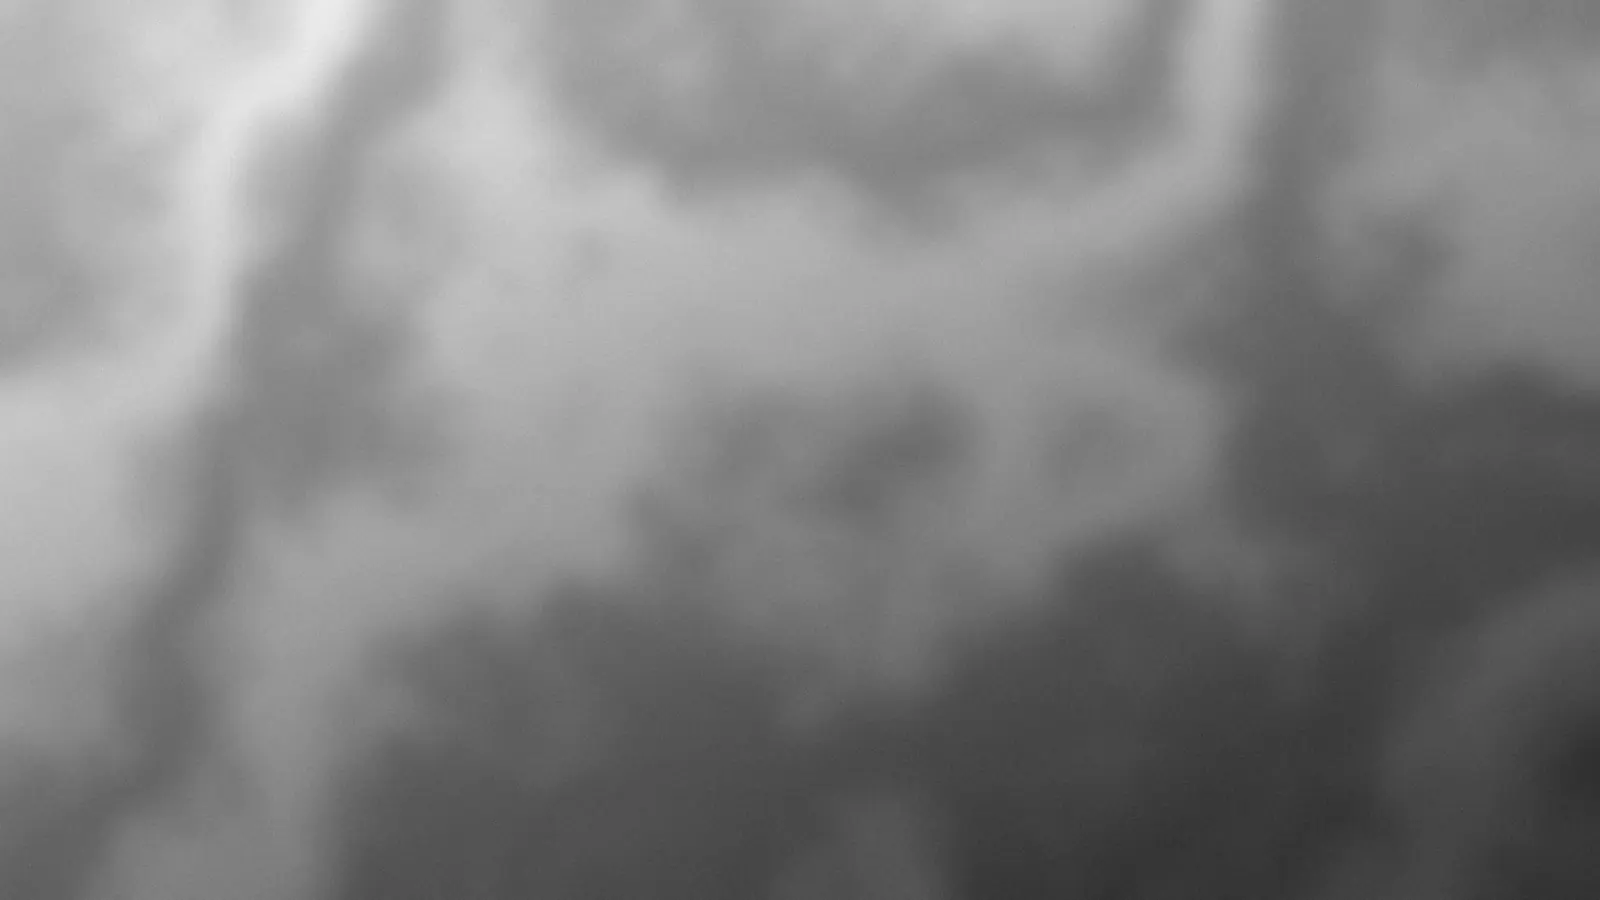
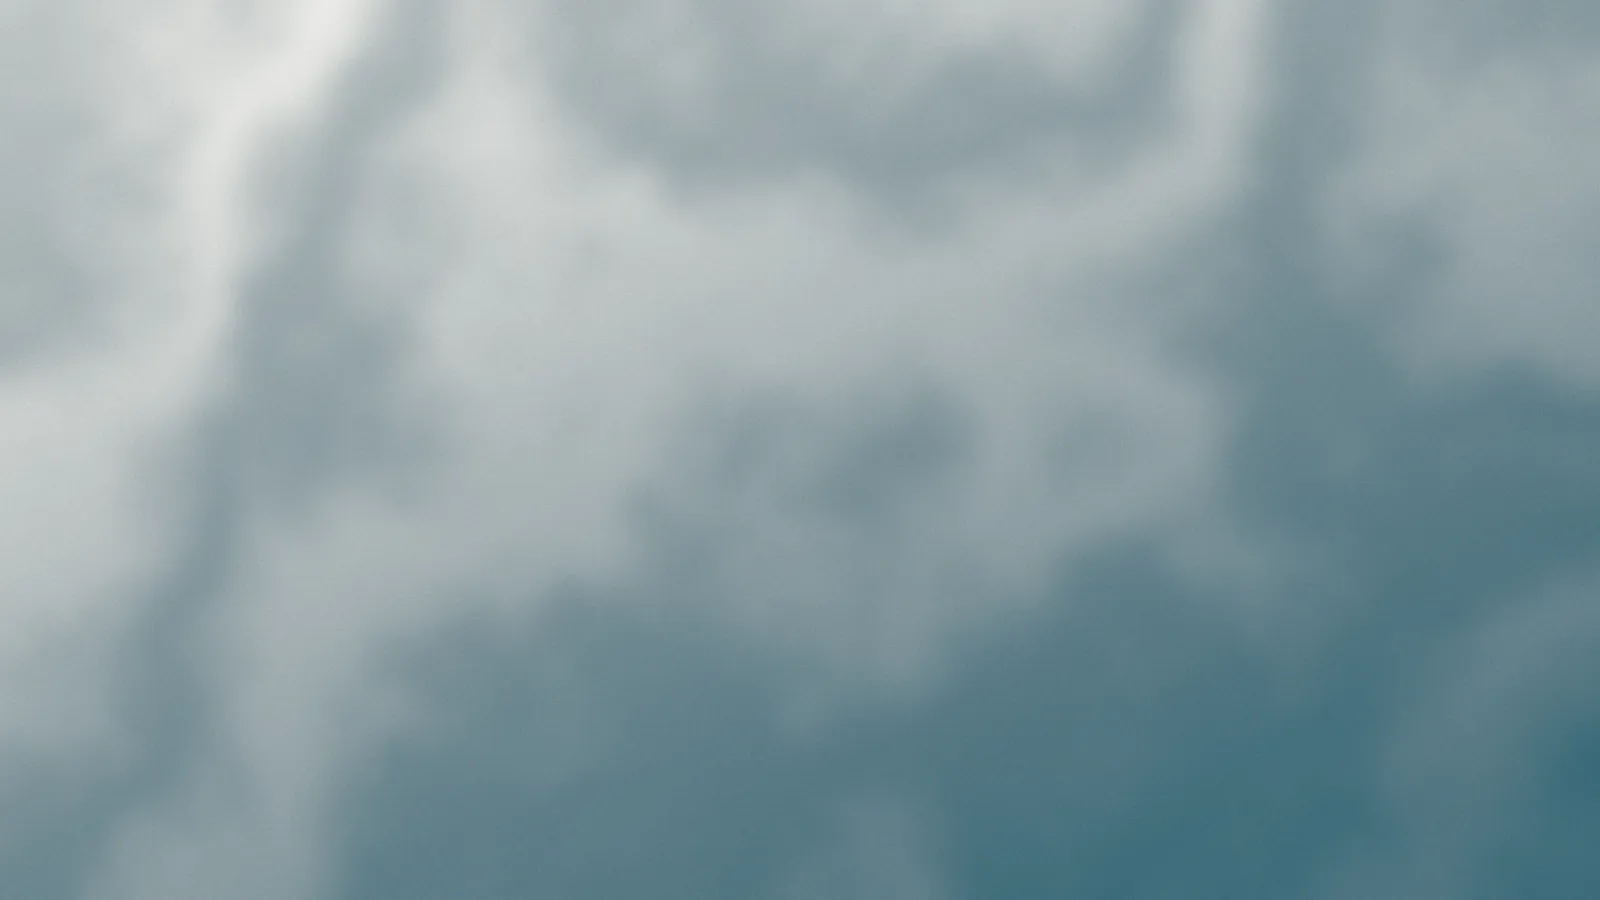
Bring colour in: a sea-and-sand palette over the monochrome
Sand is barely there -- `sunk` and `line` warm by a few points, enough to stop
the page reading as printer white and nowhere near beige. All of the actual
colour is one deep teal in `accent`, so it lands on the handful of things that
carry meaning (the italic word in the headline, pull-quotes and quote marks,
FAQ markers, bullets, buttons under the cursor, the focus ring, selected text)
rather than being spread everywhere at low strength.

`accent` has to work both as text and as a ground under white text, which pins
it dark. #0d6d78 clears 5.79:1 on canvas and white clears 5.79:1 on it. A
turquoise nearer open water manages about 2.4:1 and can carry neither, so it
gets its own decorative-only token, --color-sea, documented as unusable for
text. Its one job is the "Most common" pill: at 5.30:1 it holds an edge against
the dark card behind it AND carries dark text, where `accent` would blur into
the card at 2.93:1.

Also caught three things that had been wrong for a while:

- muted was regressing to 4.44:1 against the darkest part of the hero's blob
  wash once `line` warmed up. Darkened to #5a6062, which lifts every grey text
  run on the site (5.68 -> 6.13 on canvas).
- favicon.svg was still #2c362f green on #faf7f2 cream -- the ORIGINAL warm
  palette, never touched by the monochrome re-skin. So was og-image.jpg, which
  is the image a stranger sees when the link is pasted into a message.
- apple-touch-icon.png was likewise stale, and now renders from the favicon's
[…]

diff --git a/src/input.css b/src/input.css
@@ -17,33 +17,51 @@
    *   canvas / surface / sunk   light grounds, lightest to least light
    *   line / line-strong        hairlines and borders
    *   ink / muted               text on light
-   *   accent                    the single emphasis channel
+   *   accent / accent-soft      the single emphasis channel, and its pressed state
    *   inverse*                  dark panels, and the three text weights on them
    *
-   * Current scheme: white, grey, black. High contrast on purpose, and it suits
-   * a black-and-white portrait better than a tinted palette would.
+   * Current scheme: sea and sand. Sand is barely there -- `sunk` and `line` are
+   * warm by a few points, enough to stop the page reading as printer white,
+   * nowhere near enough to be beige. All of the actual colour is one deep teal
+   * in `accent`, so it lands on the few things that matter (pull-quotes, the
+   * quote marks, the FAQ markers, buttons under the cursor) instead of being
+   * spread everywhere at low strength.
+   *
+   * `accent` has to work as text AND as a button ground under white text, which
+   * pins it dark: it clears 5.79:1 on canvas, and white clears 5.79:1 on it.
+   * A turquoise closer to open water sits around 2.4:1 and cannot carry either.
+   * That is what --color-sea is for.
    * ------------------------------------------------------------------ */
   --color-canvas: #fafafa;
   --color-surface: #ffffff;
-  --color-sunk: #f2f2f4;
-  --color-line: #e4e4e8;
-  --color-line-strong: #cfcfd6;
-  --color-ink: #18181b;
-  --color-muted: #62626b;
-  --color-accent: #000000;
-  --color-accent-soft: #303036;
-  --color-inverse: #141416;
-  --color-inverse-soft: #2b2b31;
+  --color-sunk: #f1f0ec;
+  --color-line: #e2e0d9;
+  --color-line-strong: #c9c6bc;
+  --color-ink: #17191a;
+  --color-muted: #5a6062;
+  --color-accent: #0d6d78;
+  --color-accent-soft: #0a555e;
+  --color-inverse: #0f1a1d;
+  --color-inverse-soft: #22333a;
   --color-inverse-ink: #fafafa;
-  --color-inverse-body: #d7d7dc;
-  --color-inverse-muted: #a1a1a9;
+  --color-inverse-body: #d4dcdd;
+  --color-inverse-muted: #9dabae;
 
-  /* Previous scheme, kept so it is one paste away if the monochrome is too
-     stark. Warm sand and clay:
-       canvas #faf7f2  surface #faf7f2  sunk #f1e9dd  line #e3d6c4
-       ink #221f1c  muted #6d645b  accent #bd6f4c  accent-soft #9d5636
-       inverse #2c362f  inverse-soft #47544a
-       inverse-ink #faf7f2  inverse-body #f1e9dd  inverse-muted #e3d6c4 */
+  /* DECORATIVE ONLY. Open-water turquoise, too light to carry text or to be a
+     ground under white text -- roughly 2.4:1 against either. Use it for washes
+     and large fills, never for anything a reader has to make out. */
+  --color-sea: #2c9aa6;
+  --color-sea-wash: #e7f1f2;
+
+  /* Previous scheme, one paste away if the colour is too much. White, grey,
+     black:
+       canvas #fafafa  surface #ffffff  sunk #f2f2f4
+       line #e4e4e8  line-strong #cfcfd6
+       ink #18181b  muted #62626b  accent #000000  accent-soft #303036
+       inverse #141416  inverse-soft #2b2b31
+       inverse-ink #fafafa  inverse-body #d7d7dc  inverse-muted #a1a1a9
+     The hero texture is tinted in scripts/hero-texture.py, so reverting that
+     too means setting SHADOW/HIGHLIGHT there back to neutral greys. */
 
   --font-display: "Fraunces", ui-serif, Georgia, serif;
   --font-sans: "Inter", ui-sans-serif, system-ui, -apple-system, sans-serif;
@@ -149,14 +167,15 @@
     border-radius: 2px;
   }
 
-  /* A black ring is invisible against the dark panels, so they invert it. */
+  /* The accent ring is dark enough to disappear against the dark panels, so
+     they invert it. */
   .bg-inverse :focus-visible,
   .bg-inverse-soft :focus-visible {
     outline-color: var(--color-inverse-ink);
   }
 
   ::selection {
-    background: var(--color-ink);
+    background: var(--color-accent);
     color: var(--color-inverse-ink);
   }
 }
@@ -448,7 +467,10 @@
     height: 100%;
     object-fit: cover;
     object-position: 50% 30%;
-    filter: grayscale(1);
+    /* Held back rather than drained. The file is tinted at generation time, so
+       there is no grey to hue-rotate, and a real photograph dropped in here
+       keeps its own colour at slightly less than full strength. */
+    filter: saturate(0.9);
     opacity: var(--hero-photo);
 
     /* Three masks intersected: fade out at the bottom so the section hands off

diff --git a/index.html b/index.html
@@ -753,7 +753,14 @@
 
             <!-- Short series - highlighted -->
             <article class="reveal relative flex flex-col rounded-3xl bg-inverse p-8 text-inverse-ink shadow-e3-dark">
-              <span class="absolute top-8 right-8 rounded-full bg-inverse-ink px-3 py-1 text-xs font-semibold tracking-wider text-inverse uppercase"
+              <!--
+                The one place --color-sea earns its keep: a large fill carrying
+                dark text, where open-water turquoise reads at 5.30:1 both
+                against the card behind it and under the label on top. The deep
+                --color-accent would only manage 2.93:1 against this card, so
+                the pill would lose its edge.
+              -->
+              <span class="absolute top-8 right-8 rounded-full bg-sea px-3 py-1 text-xs font-semibold tracking-wider text-inverse uppercase"
                 >Most common</span
               >
               <h3 class="font-display text-2xl">Short series</h3>

diff --git a/scripts/og-image.py b/scripts/og-image.py
@@ -1,0 +1,112 @@
+"""
+Render the social share card at assets/img/og-image.jpg.
+
+This is the image that shows when the site is pasted into iMessage, Slack,
+Facebook or LinkedIn, so it has to carry the palette rather than lag behind it.
+Colours here are copied from the @theme block in src/input.css -- if you re-skin
+the site, re-run this.
+
+Text is set in the site's own fonts, decompressed from the vendored woff2 files
+into a temp directory (Pillow reads TTF/OTF, not woff2).
+
+    pip install pillow fonttools brotli
+    python3 scripts/og-image.py
+"""
+
+import tempfile
+from pathlib import Path
+
+from fontTools import varLib
+from fontTools.ttLib import TTFont
+from fontTools.varLib import instancer
+from PIL import Image, ImageDraw, ImageFont
+
+W, H = 1200, 630
+OUT = Path("assets/img/og-image.jpg")
+
+# From src/input.css @theme
+INVERSE = (15, 26, 29)       # --color-inverse
+INVERSE_INK = (250, 250, 250)  # --color-inverse-ink
+INVERSE_MUTED = (157, 171, 174)  # --color-inverse-muted
+SEA = (44, 154, 166)         # --color-sea, decorative only
+
+
+def load(woff2, size, **axes):
+    """woff2 -> statically instanced ttf -> Pillow font.
+
+    Two traps here, both hit while making this card:
+
+    1. Axes must be set explicitly. Google's subsetted Fraunces declares wght
+       with a DEFAULT of 900, so just asking for the font gets black weight.
+
+    2. The instance has to be baked by fontTools, not left to FreeType's
+       set_variation_by_axes. Interpolating this subset at runtime dropped the
+       crossbar off the lowercase e -- "Beth" came out as "Bcth". Instancing
+       ahead of time renders identically to the browser.
+    """
+    f = TTFont(woff2, fontNumber=0)
+    if axes and "fvar" in f:
+        f = instancer.instantiateVariableFont(f, axes, inplace=True, updateFontNames=False)
+    out = Path(tempfile.mkdtemp()) / (Path(woff2).stem + ".ttf")
+    f.flavor = None
+    f.save(out)
+    return ImageFont.truetype(str(out), size)
+
+
+# opsz stays mid-scale on purpose. Fraunces thins its strokes as opsz climbs,
+# and by the top of the axis the crossbar on the lowercase e is a hairline that
+# rasterises away at this size -- "Beth" renders as "Bcth". 36 keeps the display
+# proportions without losing the glyph.
+display = load("assets/fonts/fraunces-latin.woff2", 92, opsz=36, wght=400)
+label = load("assets/fonts/inter-latin.woff2", 28, wght=500)
+tagline = load("assets/fonts/inter-latin.woff2", 32, wght=400)
+
+im = Image.new("RGB", (W, H), INVERSE)
+d = ImageDraw.Draw(im)
+
+
+def centre(text, font, y, fill, tracking=0):
+    """Draw centred at top-edge y, optionally letter-spaced (Pillow has no
+    tracking). Returns the bottom of the inked area, so the caller can stack
+    by real gaps instead of guessing at line positions."""
+    if not tracking:
+        box = d.textbbox((0, 0), text, font=font)
+        d.text(((W - box[2]) / 2, y), text, font=font, fill=fill)
+        return y + box[3]
+    widths = [d.textbbox((0, 0), c, font=font)[2] for c in text]
+    total = sum(widths) + tracking * (len(text) - 1)
+    x, bottom = (W - total) / 2, y
+    for c, cw in zip(text, widths):
+        d.text((x, y), c, font=font, fill=fill)
+        bottom = max(bottom, y + d.textbbox((0, 0), c, font=font)[3])
+        x += cw + tracking
+    return bottom
+
+
+# The mark, same geometry as favicon.svg on a 32-unit box, scaled and centred.
+MARK_S, MARK_X, MARK_Y, STROKE = 116, W / 2, 150, 7.0
+sc = lambda x, y: (MARK_X + (x - 16) / 32 * MARK_S, MARK_Y + (y - 16) / 32 * MARK_S)
+
+
+def brush(pts, width, fill):
+    for x, y in pts:
+        d.ellipse([x - width / 2, y - width / 2, x + width / 2, y + width / 2], fill=fill)
+
+
+def cubic(p0, p1, p2, p3, n=600):
+    for i in range(n + 1):
+        t, u = i / n, 1 - i / n
+        yield (u**3 * p0[0] + 3 * u * u * t * p1[0] + 3 * u * t * t * p2[0] + t**3 * p3[0],
+               u**3 * p0[1] + 3 * u * u * t * p1[1] + 3 * u * t * t * p2[1] + t**3 * p3[1])
+
+
+brush([sc(16, 6 + 20 * i / 400) for i in range(401)], STROKE, SEA)
+for y in (10.5, 16, 21.5):
+    brush([sc(x, yy) for x, yy in cubic((11, y), (14.2, y + 1.5), (17.8, y + 1.5), (21, y))], STROKE, SEA)
+
+y = centre("Beth Burgin", display, 262, INVERSE_INK)
+y = centre("CERTIFIED ADVANCED ROLFER", label, y + 34, INVERSE_MUTED, tracking=6)
+centre("Move. Connect. Integrate.", tagline, y + 30, SEA)
+
+im.save(OUT, "JPEG", quality=88, optimize=True, progressive=True)
+print(OUT, (W, H))

diff --git a/scripts/hero-texture.py b/scripts/hero-texture.py
@@ -20,6 +20,18 @@ W, H = 1600, 900
 OUT = "assets/img/hero-bg.webp"
 rng = np.random.default_rng(20260724)
 
+# The tone ramp: shadows take the sea, highlights go to warm paper. Tinting the
+# file rather than the CSS keeps the stylesheet from having to hue-rotate a grey
+# image, and means dropping in a real photograph keeps its own colour.
+SHADOW = (5, 94, 112)        # deep water, a shade under --color-accent
+HIGHLIGHT = (250, 248, 243)  # sand-lit sky
+
+# Pulls the midtones down the ramp toward the sea. Straight linear interpolation
+# spends most of the range near the highlight, and by the time the browser has
+# faded and masked the result there is no colour left to see. Above 1.0 = more
+# water, below 1.0 = more paper.
+TINT_GAMMA = 1.9
+
 
 def octave(w, h, cells):
     """One octave of value noise, bilinearly upsampled to w x h."""
@@ -53,7 +65,23 @@ im = im.filter(ImageFilter.GaussianBlur(radius=6))
 
 # Film grain, so the flat areas don't band once the browser scales the file up.
 grain = rng.normal(0.0, 3.2, (H, W))
-out = np.clip(np.asarray(im, dtype=np.float32) + grain, 0, 255).astype(np.uint8)
+tone = np.clip(np.asarray(im, dtype=np.float32) + grain, 0, 255) / 255.0
 
-Image.fromarray(out, "L").convert("RGB").save(OUT, "WEBP", quality=76, method=6)
-print(OUT, (W, H))
+# Interpolate the ramp in linear light rather than in sRGB. Mixing a dark teal
+# and a near-white straight in gamma space runs the midtones through a chalky
+# grey; done linearly they stay in the water.
+def to_linear(c):
+    c = np.asarray(c, dtype=np.float64) / 255.0
+    return np.where(c <= 0.04045, c / 12.92, ((c + 0.055) / 1.055) ** 2.4)
+
+
+def to_srgb(c):
+    return np.where(c <= 0.0031308, c * 12.92, 1.055 * np.clip(c, 0, None) ** (1 / 2.4) - 0.055)
+
+
+lo, hi = to_linear(SHADOW), to_linear(HIGHLIGHT)
+t = (tone**TINT_GAMMA)[..., None]
+rgb = to_srgb(lo + (hi - lo) * t) * 255.0
+
+Image.fromarray(np.clip(rgb, 0, 255).astype(np.uint8), "RGB").save(OUT, "WEBP", quality=80, method=6)
+print(OUT, (W, H), "shadow", SHADOW, "highlight", HIGHLIGHT)

diff --git a/assets/img/README.md b/assets/img/README.md
@@ -2,13 +2,22 @@
 
 Drop real photos here. The site picks them up by filename, so there's no code to change.
 
-| File                 | Used for                          | Suggested size            |
-| -------------------- | --------------------------------- | ------------------------- |
-| `beth.webp`          | Hero portrait                     | square, about 1000px        |
-| `hero-bg.webp`       | Hero background texture           | 1600 × 900                |
-| `og-image.jpg`       | Link preview when shared          | 1200 × 630                |
-| `apple-touch-icon.png` | iOS home-screen icon            | 180 × 180                 |
-| `favicon.svg`        | Browser tab icon (already present) | n/a                       |
+| File                   | Used for                  | Size        | Generated by              |
+| ---------------------- | ------------------------- | ----------- | ------------------------- |
+| `beth.webp`            | Hero portrait             | square ~1000px | — (a real photo)       |
+| `hero-bg.webp`         | Hero background texture   | 1600 × 900  | `scripts/hero-texture.py` |
+| `og-image.jpg`         | Link preview when shared  | 1200 × 630  | `scripts/og-image.py`     |
+| `apple-touch-icon.png` | iOS home-screen icon      | 180 × 180   | from `favicon.svg`        |
+| `favicon.svg`          | Browser tab icon          | n/a         | — (hand-written)          |
+
+Three of these hard-code palette values, because they are images rather than
+CSS and cannot read `@theme`. **When you re-skin the site, re-run them** — the
+favicon and og-image both sat in the original warm-sand palette through a whole
+monochrome re-skin before anyone noticed, and the og-image is the one a stranger
+sees first when the link gets pasted somewhere.
+
+    python3 scripts/hero-texture.py   # needs pillow, numpy
+    python3 scripts/og-image.py       # needs pillow, fonttools, brotli
 
 The hero frame is square and crops from the top, so a headshot with the face in
 the upper half sits well. The build reads the filename from the `src` in
